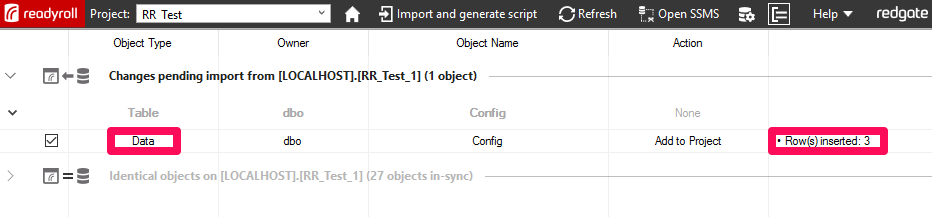
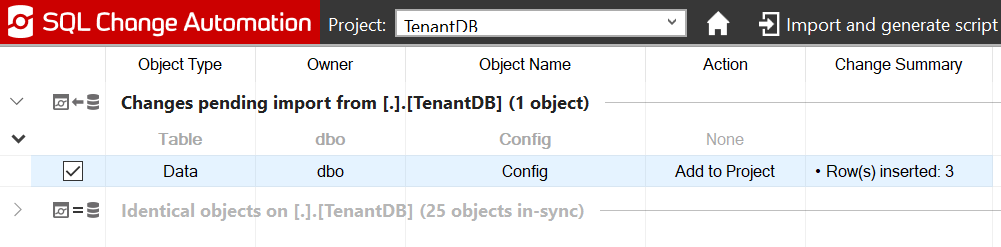
Update data change script screen captures

diff --git a/PITCHME.md b/PITCHME.md
@@ -191,15 +191,16 @@ Reference Data
 
 +++
 
-![Image](./assets/img/ReadyRoll-include-table-data.png)
+![Image](./assets/img/SCA-include-table-data.png)
 
 +++
 
 ```sql
 INSERT dbo.Config(Setting, Description, Value)
-VALUES	('Active', 'Is the appllication active', 'Y'),
-		('Client', 'The name of the client', 'The SQL People Ltd'),
-		('Client Email', 'Email address', 'James@TheSQLPeople.com'); 
+VALUES
+('Active', 'Is the appllication active', 'Y'),
+('Client', 'The name of the client', 'The SQL People Ltd'),
+('Client Email', 'Email address', 'James@TheSQLPeople.com');
 GO
 ```
 
